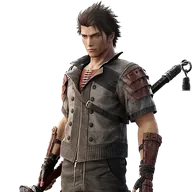
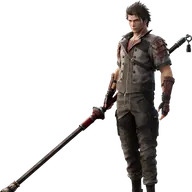
style: Sonon's full picture, centred by his body everywhere it appears
Sonon's portrait and cards use his whole render again, staff included. The art list can say where a lopsided figure's body sits (Sonon: 73% across), and the shared Artwork component measures how wide the picture actually draws in its box and shifts it so the body stands in the middle: in his portrait ring, his Explore card and any other view of him. His crop is removed from fetch_art.py and the thumbnail is remade from the full picture.

diff --git a/apps/web/src/components/Artwork.tsx b/apps/web/src/components/Artwork.tsx
@@ -1,3 +1,4 @@
+import { useLayoutEffect, useRef, useState } from "react";
 import { Link } from "react-router";
 import { detailsFor } from "../art/details";
 import { type ArtEntry, artSrc, artwork } from "../art/manifest";
@@ -8,6 +9,35 @@ const FADES = {
   bottom: "linear-gradient(to top, transparent, #000 38%)",
   left: "linear-gradient(to right, transparent, #000 40%)",
 } as const;
+
+/**
+ * How far to move a lopsided figure (a long weapon to one side) so its body stands in the middle of
+ * its box: measured from the width the image actually draws at, whatever the box's fitting rules.
+ */
+function useCentring(centre: number | undefined) {
+  const ref = useRef<HTMLImageElement>(null);
+  const [shift, setShift] = useState(0);
+  useLayoutEffect(() => {
+    const img = ref.current;
+    if (centre === undefined || !img || typeof ResizeObserver === "undefined") return;
+    const measure = () => {
+      const { clientWidth: boxW, clientHeight: boxH, naturalWidth: w, naturalHeight: h } = img;
+      if (!w || !h || !boxW || !boxH) return;
+      // A contained image draws at the smaller of the two scales; a natural-size one at either.
+      const drawn = w * Math.min(boxW / w, boxH / h);
+      setShift(Math.round((0.5 - centre) * drawn));
+    };
+    measure();
+    img.addEventListener("load", measure);
+    const watch = new ResizeObserver(measure);
+    watch.observe(img);
+    return () => {
+      img.removeEventListener("load", measure);
+      watch.disconnect();
+    };
+  }, [centre]);
+  return { ref, shift };
+}
 
 /** An image from the manifest, sized up front so it never shifts the layout; nothing if absent. */
 export function Artwork({
@@ -27,9 +57,11 @@ export function Artwork({
   fade?: keyof typeof FADES;
 }) {
   const entry = given ?? (id === undefined ? undefined : artwork(id));
+  const { ref, shift } = useCentring(entry?.centre);
   if (!entry) return null;
   return (
     <img
+      ref={ref}
       src={artSrc(entry)}
       width={entry.width}
       height={entry.height}
@@ -39,7 +71,11 @@ export function Artwork({
       decoding="async"
       draggable={false}
       className={`${entry.kind === "lineart" ? "lineart" : ""} ${className}`}
-      style={{ objectPosition: entry.focus, maskImage: FADES[fade] }}
+      style={{
+        objectPosition: entry.focus,
+        maskImage: FADES[fade],
+        translate: shift ? `${String(shift)}px 0` : undefined,
+      }}
     />
   );
 }

diff --git a/apps/web/src/art/manifest.ts b/apps/web/src/art/manifest.ts
@@ -13,6 +13,11 @@ export interface ArtEntry {
   kind: "key" | "cutout" | "scene" | "lineart";
   /** Where to centre it when the layout crops it (CSS object-position). */
   focus?: string;
+  /**
+   * For a figure that a long weapon makes lopsided: how far across the picture (0–1) the body is,
+   * so a portrait can stand the body in the middle and let the weapon reach out to one side.
+   */
+  centre?: number;
   /** Entities it depicts or evokes, so their pages can use it. */
   subjects: readonly string[];
   /** For a character's pair of images: the original's artwork, or the Remake/Rebirth look. */
@@ -281,9 +286,10 @@ export const ARTWORK: readonly ArtEntry[] = [
     subjects: ["character_dyne"],
     era: "modern",
   }),
-  art("characters/sonon", "412x822", "cutout", {
+  art("characters/sonon", "716x822", "cutout", {
     subjects: ["character_sonon_kusakabe"],
     era: "modern",
+    centre: 0.729,
   }),
 
   // ── Places ──────────────────────────────────────────────────────────────────────────────────

diff --git a/apps/web/scripts/fetch_art.py b/apps/web/scripts/fetch_art.py
@@ -201,7 +201,6 @@ CROP = {
     "places/nibelheim-rebirth": (0, 0.22, 1, 1),  # the area-name banner
     "places/corel-prison": (0, 0, 1, 0.72),  # the subtitle
     "characters/sephiroth-og": (0, 0, 0.516, 1),  # most of the long sword
-    "characters/sonon": (0.425, 0, 1, 1),  # centre the figure
     "characters/red-xiii": (0, 0.12, 1, 1),  # the empty space above him
     "characters/sephiroth": (0.209, 0, 1, 1),  # centre the figure
     "characters/vincent": (0, 0, 0.788, 1),  # centre the figure
